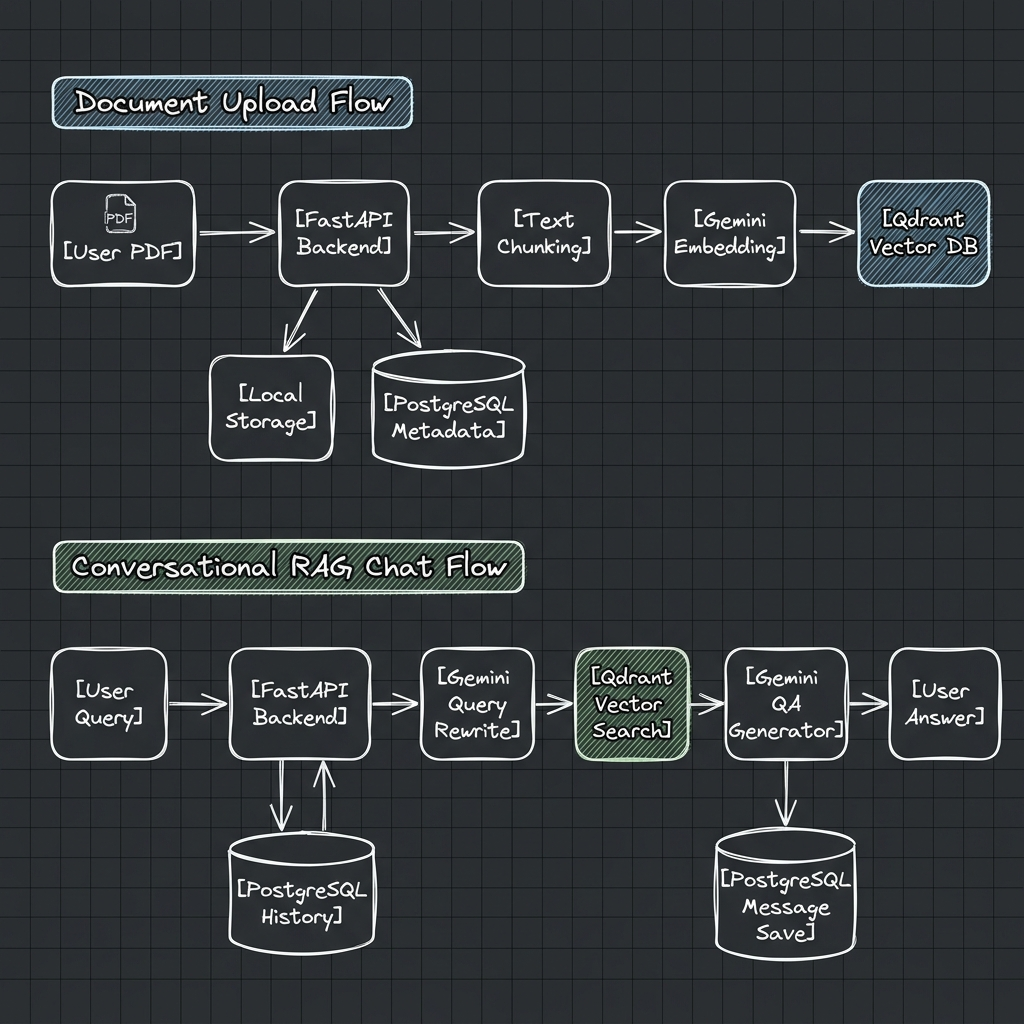
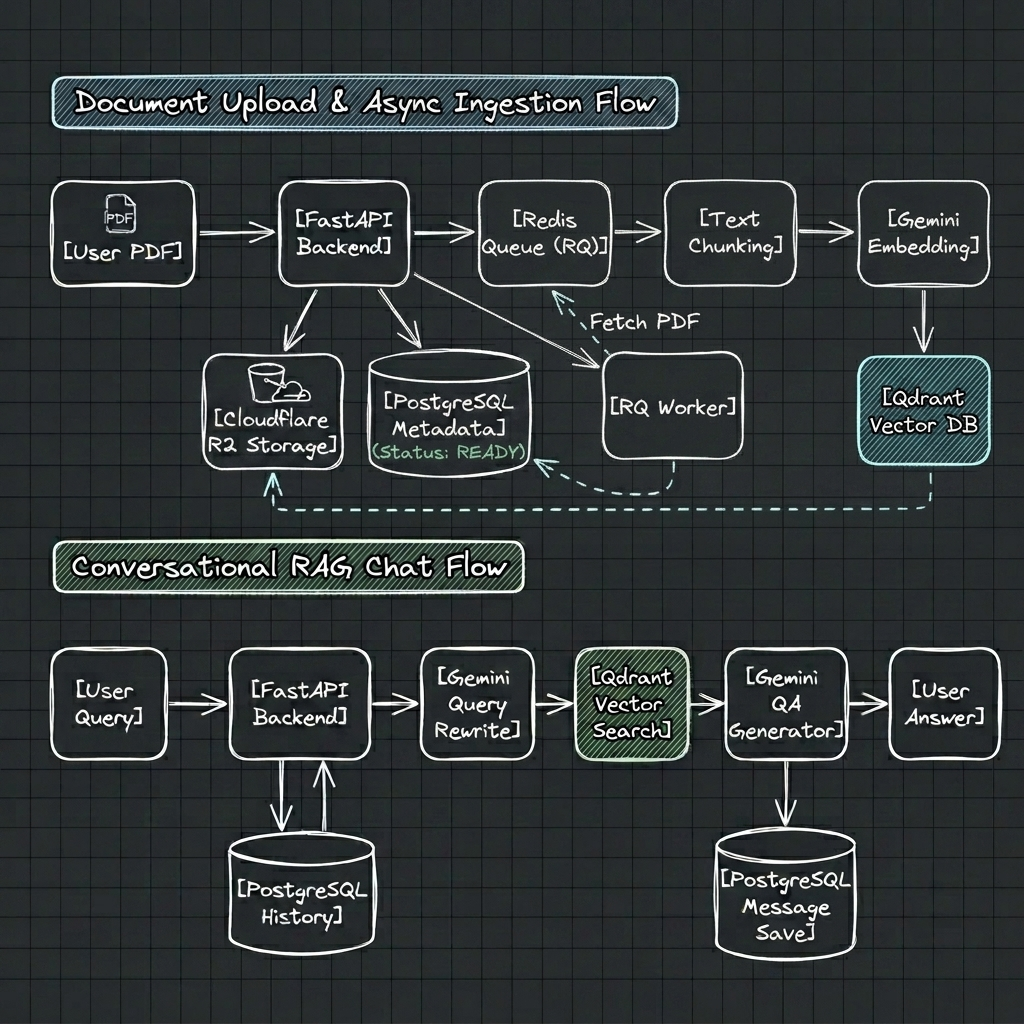
chore: update docs

diff --git a/backend/architecture.md b/backend/architecture.md
@@ -6,7 +6,7 @@ This document describes the backend architecture, data flow pipelines, design ch
 
 ## 1. System Architecture & Component Mapping
 
-The backend is built as a layered modular system using **FastAPI** (API routing), **SQLAlchemy** (Relational Database mapping), **Boto3** (Cloudflare R2 storage Client), and **Qdrant** (Vector Search engine).
+The backend is built as a layered modular system using **FastAPI** (API routing), **SQLAlchemy** (Relational Database mapping), **Boto3** (Cloudflare R2 storage Client), **Redis & RQ** (Asynchronous Background Queue & Workers), and **Qdrant** (Vector Search engine).
 
 ### A. Architectural Component Diagram
 
@@ -50,17 +50,28 @@ The backend is built as a layered modular system using **FastAPI** (API routing)
 | +-----------+ |                   | +-----------+ |     |  | rewriter.py|  | retriever| |
 | | doc_repo  | |                   | | s3 / R2   | |     |  +-----+------+  +----+-----+ |
 | +-----+-----+ |                   | | upload    | |     |        |              |       |
-|       |       |                   | +-----------+ |     |        v              v       |
-|       v       |                   +---------------+     |  +-----+------+  +----+-----+ |
-| +-----------+ |                                         |  | embedder.py|  | generator| |
-| | Postgres  | | <---------------+ (Saves Counts)        |  +-----+------+  +----+-----+ |
-| | (Supabase)| |                                         |        |              |       |
-| +-----------+ | <---------------+ (Triggers Ingestion)  |        v              v       |
-|               |                                         |  +-----+------+  +----+-----+ |
-| +-----------+ |                                         |  | Qdrant DB  |  | Gemini   | |
-| | conv_repo | |                                         |  +------------+  +----------+ |
-| +-----------+ |                                         |                               |
-+---------------+                                         +-------------------------------+
+|       |       |                   | +-----+-----+ |     |        v              v       |
+|       v       |                           |             |  +-----+------+  +----+-----+ |
+| +-----------+ |                           |             |  | embedder.py|  | generator| |
+| | Postgres  | | <---------------+         |             |  +-----+------+  +----+-----+ |
+| | (Supabase)| | (Saves Metadata |         |             |        |              |       |
+| +-----+-----+ |   & Updates)    |         |             |        v              v       |
+|       ^       |                 |         |             |  +-----+------+  +----+-----+ |
+|       |       |                 |         |             |  | Qdrant DB  |  | Gemini   | |
+| +-----+-----+ |                 |         |             |  +------------+  +----------+ |
+| | conv_repo | |                 |         |             |                               |
+| +-----------+ |                 |         |             +---------------+---------------+
++---------------+                 |         |                             ^
+                                  |         | (Downloads PDF)             | (Upserts Chunks)
+                                  |         v                             |
++---------------------------------+---------+-----------------------------+---------------+
+|  ASYNC QUEUE & WORKER LAYER                                                             |
+|                                                                                         |
+|   +-------------------+     (Enqueues)    +---------------+     (Pops)   +-----------+  |
+|   | document_service  | ----------------> | Redis Queue   | -----------> | RQ Worker |  |
+|   +-------------------+                   | (rq / Redis)  |              | (jobs.py) |  |
+|                                           +---------------+              +-----------+  |
++-----------------------------------------------------------------------------------------+
 ```
 
 ---
@@ -96,6 +107,10 @@ backend/
 │   ├── repositories/
 │   │   ├── conversation_repository.py # SQL operations handling active conversations, messages logging, and query history loading.
 │   │   └── document_repository.py     # SQL operations handling document metadata, counts updates, status transitions, and deletion.
+│   ├── queue/
+│   │   ├── client.py            # Redis client connection and queue name constants.
+│   │   ├── jobs.py              # Background ingestion worker task (downloads PDF from R2, runs RAG pipeline, updates status).
+│   │   └── worker.py            # RQ SimpleWorker process entry point.
 │   ├── schemas/
 │   │   ├── chat.py              # Pydantic schemas validating Chat request payloads.
 │   │   └── conversation.py      # Pydantic schemas formatting Conversation and Message JSON responses.
@@ -131,9 +146,53 @@ To ensure high performance and structured data persistence, the system splits da
 
 ---
 
-## 3. RAG Pipeline Flow
+## 3. Asynchronous Document Pipeline & RAG Flow
 
-### A. 1st Request Flow (Starting a New Conversation)
+### A. Document Upload & Asynchronous Ingestion Flow
+
+```
+[Client]              [FastAPI Backend]            [Cloudflare R2]          [PostgreSQL]           [Redis Queue]          [RQ Worker Process]         [Qdrant DB]
+   │                         │                           │                       │                      │                          │                       │
+   │── 1. POST /documents ──>│                           │                       │                      │                          │                       │
+   │      (PDF file)         │── 2. Stream Upload ──────>│                       │                      │                          │                       │
+   │                         │      documents/<uuid>.pdf │                       │                      │                          │                       │
+   │                         │───────────────────────────┼── 3. Insert record ──>│                      │                          │                       │
+   │                         │                           │      (status=PENDING) │                      │                          │                       │
+   │                         │───────────────────────────┼───────────────────────┼── 4. Enqueue Job ───>│                          │                       │
+   │<─ 5. Return JSON (202) ─│                           │                       │      (doc_id,user_id)│                          │                       │
+   │    {id, status:PENDING} │                           │                       │                      │                          │                       │
+   │                         │                           │                       │                      │── 6. Pop Job ───────────>│                       │
+   │                         │                           │                       │                      │                          │                       │
+   │                         │                           │                       │<─ 7. Fetch metadata ─┼──────────────────────────│                       │
+   │                         │                           │                       │── 8. Status=PROCESSING ───────────────────────>│                       │
+   │                         │                           │<─ 9. Download file ───┼─────────────────────────────────────────────────│                       │
+   │                         │                           │      (to temp file)   │                                                 │                       │
+   │                         │                           │                       │                                                 │── 10. Load, Split, ──>│
+   │                         │                           │                       │                                                 │       Embed, Upsert   │
+   │                         │                           │                       │                                                 │       chunks          │
+   │                         │                           │                       │                                                 │<── 11. Success ───────│
+   │                         │                           │                       │                                                 │                       │
+   │                         │                           │                       │<─ 12. Update page/chunk counts & status=READY ──│                       │
+```
+
+1. **Client Request**: Client sends a multipart `POST /documents` request containing the PDF file.
+2. **Direct Storage Upload**: `DocumentService` streams the PDF file to Cloudflare R2 under `documents/<uuid>.pdf`. The raw binary is **not** stored in PostgreSQL or Redis.
+3. **Database Ledger Entry**: A record is created in PostgreSQL with `status = DocumentStatus.PENDING` storing document key, hash, size, and user ID.
+4. **Task Enqueuing**: `DocumentService` enqueues an ingestion job (`process_document`) into Redis Queue (`ingestion`). Only lightweight metadata (`document_id`, `user_id`) is enqueued.
+5. **Immediate Response**: FastAPI returns the created Document object (in `PENDING` state) to the client immediately.
+6. **Worker Pick Up**: Background worker (`app/queue/worker.py`) running as a separate process pops the job from Redis.
+7. **Metadata & Status Update**: The worker fetches document details from PostgreSQL and updates the status to `PROCESSING`.
+8. **Storage Download**: The worker downloads the PDF from Cloudflare R2 into an OS temporary file (`tempfile.NamedTemporaryFile`).
+9. **RAG Processing**: The worker calls `ingest_pdf(temp_path, document_id, user_id)`:
+   - **PyPDF Loader**: Extracts page text blocks.
+   - **Splitter**: Chunks text into overlapping segments.
+   - **Embedder**: Generates vector embeddings for chunks.
+   - **Qdrant**: Upserts points containing embeddings and metadata into Qdrant.
+10. **Cleanup & Completion**: The worker deletes the local temporary file and updates PostgreSQL with page count, chunk count, and sets `status = DocumentStatus.READY`.
+
+---
+
+### B. 1st Request Flow (Starting a New Conversation)
 
 ```
 [Client]                [FastAPI Backend]        [PostgreSQL]        [Qdrant DB]        [Gemini LLM]
@@ -161,7 +220,7 @@ To ensure high performance and structured data persistence, the system splits da
 7. **Database Persistence**: The backend stores the user's prompt and assistant's response/citations in the PostgreSQL `messages` table.
 8. **Client Response**: The backend returns the `conversation_id`, markdown `answer`, and inline comma-separated `sources` to the client.
 
-### B. Subsequent Request Flow (Follow-up Chat Turns)
+### C. Subsequent Request Flow (Follow-up Chat Turns)
 
 ```
 [Client]                [FastAPI Backend]        [PostgreSQL]        [Qdrant DB]        [Gemini LLM]
@@ -217,7 +276,9 @@ Follow these steps to run the backend server locally:
 
 - Python 3.11+
 - PostgreSQL database
+- Redis instance (local or Cloud)
 - Qdrant cloud account or local Qdrant instance
+- Cloudflare R2 bucket (S3 compatible storage)
 
 ### 2. Installation
 
@@ -244,6 +305,12 @@ QDRANT_API_KEY=your_qdrant_api_key
 COLLECTION_NAME=pdf.chat
 DATABASE_URL=postgresql+psycopg://user:password@host:port/database_name
 FRONTEND_URL=http://localhost:3000
+REDIS_HOST=localhost
+REDIS_PORT=6379
+R2_ACCOUNT_ID=your_cloudflare_r2_account_id
+R2_ACCESS_KEY_ID=your_r2_access_key
+R2_SECRET_ACCESS_KEY=your_r2_secret_key
+R2_BUCKET=your_r2_bucket_name
 ```
 
 ### 4. Database Migrations
@@ -254,12 +321,18 @@ Run Alembic migrations to construct database tables:
 alembic upgrade head
 ```
 
-### 5. Run the Server
+### 5. Run the Application Services
 
 Start the Uvicorn development server:
 
 ```bash
 uvicorn app.main:app --host 127.0.0.1 --port 8000 --reload
+```
+
+Start the RQ Background Ingestion Worker (in a separate terminal process):
+
+```bash
+python -m app.queue.worker
 ```
 
 The API documentation will be available at `http://127.0.0.1:8000/docs`.

diff --git a/README.md b/README.md
@@ -8,7 +8,7 @@
 
 The repository is structured as a monorepo containing two main application components:
 
-- **Backend (FastAPI)**: Implements database integrations (PostgreSQL, Qdrant), PDF document chunking and embedding generation, auth session verification, query-rewriting, and conversational QA pipelines. 
+- **Backend (FastAPI)**: Implements database integrations (PostgreSQL, Qdrant), Cloudflare R2 object storage, asynchronous task queuing via Redis & RQ Worker, PDF document chunking and embedding generation, auth session verification, query-rewriting, and conversational QA pipelines. 
   - Details: [backend/architecture.md](file:///c:/Users/ayush/Desktop/usecase/projects/chatwpdf/backend/architecture.md)
 - **Frontend (Next.js 15)**: Provides the user interface utilizing React, Tailwind CSS (v4), Zustand for state management, Radix UI primitives, TanStack Query for server state caching, and Better Auth client-side SDK.
   - Details: [frontend/architecture.md](file:///c:/Users/ayush/Desktop/usecase/projects/chatwpdf/frontend/architecture.md)
@@ -23,6 +23,14 @@ The repository is structured as a monorepo containing two main application compo
 3. **Session Guards**: Client-side page navigation is protected using a custom Next.js Edge proxy middleware ([src/proxy.ts](file:///c:/Users/ayush/Desktop/usecase/projects/chatwpdf/frontend/src/proxy.ts)) and client auth guards ([src/features/auth/auth-guard.tsx](file:///c:/Users/ayush/Desktop/usecase/projects/chatwpdf/frontend/src/features/auth/auth-guard.tsx)).
 4. **Backend Verification**: Every backend request is checked by the FastAPI backend using a dependency. It intercepts the user session cookie, verifies it directly against the Better Auth session validation endpoint, and extracts the authenticated User ID.
 
+### B. Document Upload & Ingestion Flow
+1. **PDF Upload & Storage**: When a user uploads a PDF via `POST /documents`, the FastAPI backend streams the file directly to **Cloudflare R2** object storage (`documents/<uuid>.pdf`).
+2. **Metadata Ledger**: A database entry is created in PostgreSQL with `status = PENDING`.
+3. **Async Task Queuing**: An ingestion task (`process_document`) with `document_id` and `user_id` is enqueued into **Redis Queue (RQ)**. The PDF binary itself is stored safely in Cloudflare R2 and not passed through Redis.
+4. **Worker Processing**: An independent **RQ Worker** process (`python -m app.queue.worker`) pops the job from Redis, retrieves metadata from PostgreSQL, and downloads the PDF from Cloudflare R2 into OS temporary file storage.
+5. **RAG Indexing**: The worker parses PDF pages (PyPDF), chunks text, computes embeddings via Google Gemini (`text-embedding-004`), and upserts vector payloads into **Qdrant**.
+6. **Cleanup & Finalization**: The worker deletes the temporary file and updates the document status in PostgreSQL to `READY`.
+
 ---
 
 ## 3. Local Setup Guide
@@ -30,7 +38,7 @@ The repository is structured as a monorepo containing two main application compo
 Both the backend and frontend components require distinct setups, packages, and environment configurations:
 
 ### Backend Setup
-For backend system requirements, virtual environment setup, library installations, database migrations (Alembic), and Uvicorn runtime commands, please refer specifically to the:
+For backend system requirements, virtual environment setup, library installations, database migrations (Alembic), Redis configuration, and runtime server/worker commands, please refer specifically to the:
 👉 **[Backend Architecture & Setup Guide](file:///c:/Users/ayush/Desktop/usecase/projects/chatwpdf/backend/architecture.md)**
 
 ### Frontend Setup
